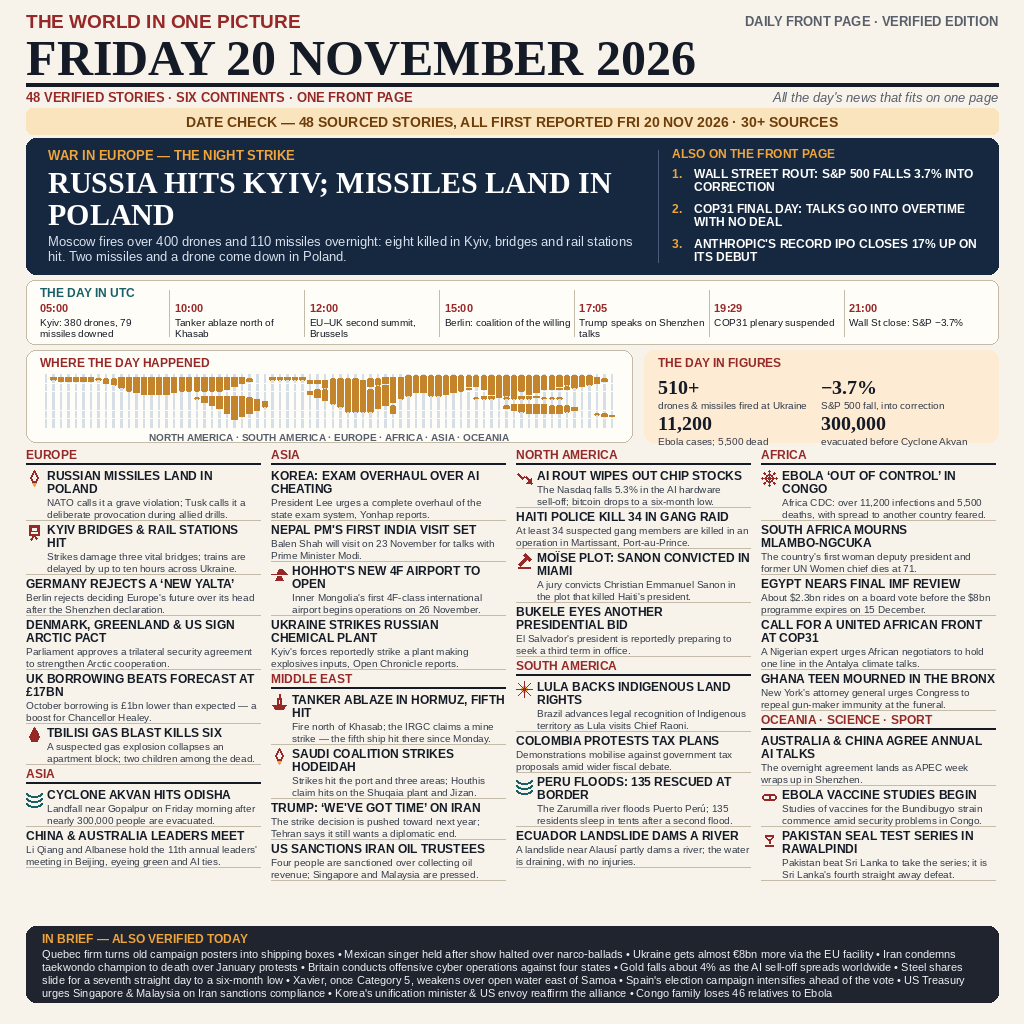
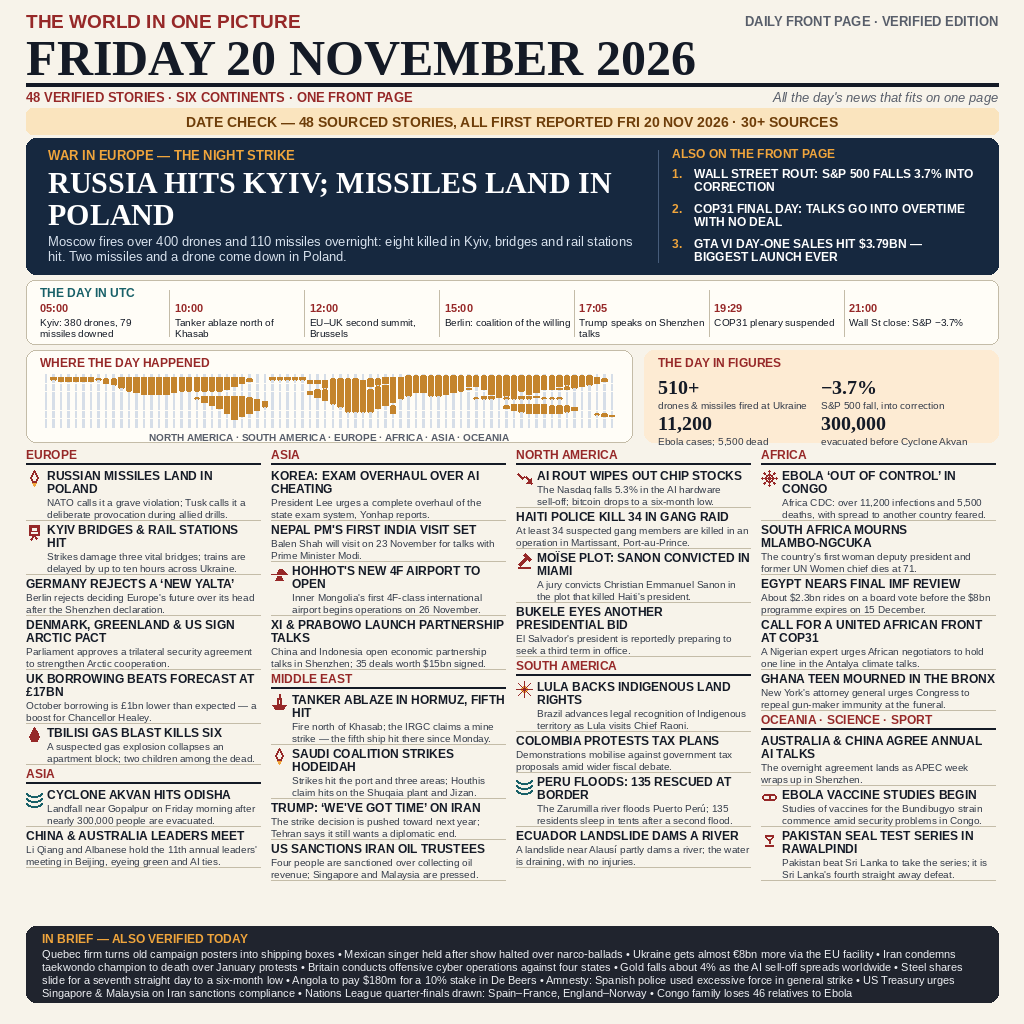
Revise front page: GTA VI sales record, Xi-Prabowo talks, briefs fix

diff --git a/README.md b/README.md
@@ -20,7 +20,7 @@ a dot-matrix world map and a day-in-figures box.
 - **The day in UTC:** from Kyiv's morning count of 380 drones and 79 missiles
   downed, through the EU–UK summit in Brussels, to the Wall Street close.
 - **Front page grid, by continent:** the Wall Street rout (S&P 500 −3.7%),
-  Anthropic's record IPO closing 17% up, COP31 running into overtime, Ebola
+  GTA VI's $3.79bn day-one sales record, COP31 running into overtime, Ebola
   "out of control" in DR Congo, a fifth tanker hit in Hormuz, Cyclone Akvan's
   Odisha landfall, Haiti's gang raid, Peru's floods — and more.
 - **The day in figures:** 510+ weapons fired at Ukraine, 11,200 Ebola cases,
